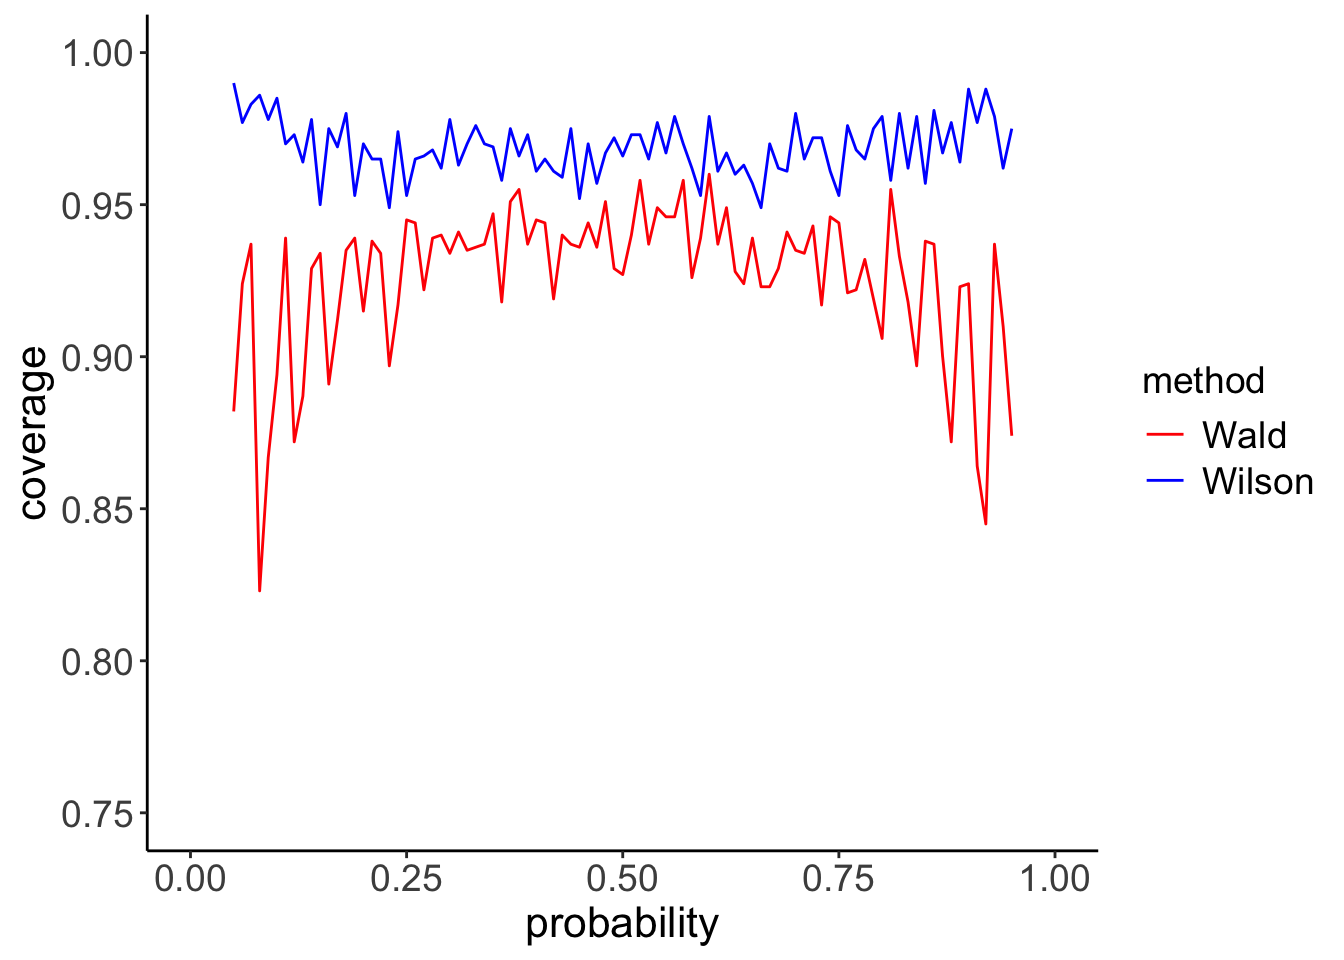
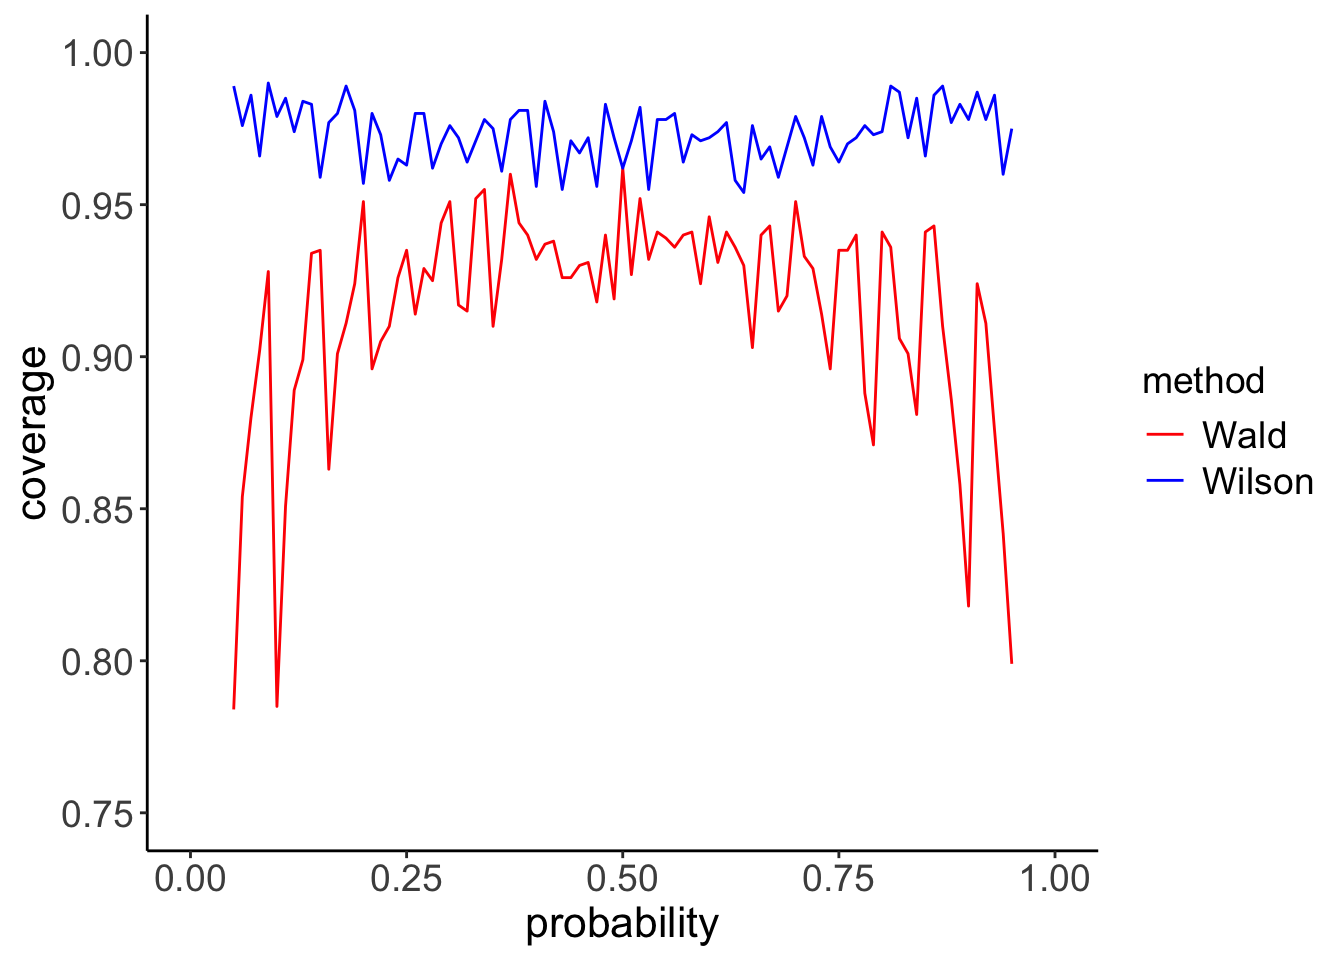
Publish site to docs/

Changed region(s): [[0.1562, 0.0938, 0.75, 0.7188]]

diff --git a/docs/posts/probability_estimation/index.html b/docs/posts/probability_estimation/index.html
@@ -8,9 +8,9 @@
 
 <meta name="author" content="Angelo Maria Sabatini">
 <meta name="dcterms.date" content="2024-04-27">
-<meta name="description" content="Confidence intervals for the estimation of probabilities and frequencies (proportions) are usually built using the binomial model. Approximate formulae are presented in many textbooks, and they are widely used when the number of trials is believed sufficiently high for the normal distribution to approximate the binomial distribution. By simulation, the properties of two popular methods, the Wilson method and the Wald method, are checked for their ability to provide the stated coverage.">
+<meta name="description" content="Usually confidence intervals for the estimation of proportions are built using methods, whose application requires the validity of the normal approximation to the binomial distribution. By simulation, two of these methods (Wilson and Wald) are tested for their ability to provide the stated coverage for small-to-large samples.">
 
-<title>Angelo Maria Sabatini - Simulation of counting experiments</title>
+<title>Angelo Maria Sabatini - Confidence intervals for proportions</title>
 <style>
 code{white-space: pre-wrap;}
 span.smallcaps{font-variant: small-caps;}
@@ -186,7 +186,7 @@ window.Quarto = {
 
 <header id="title-block-header" class="quarto-title-block default">
 <div class="quarto-title">
-<h1 class="title">Simulation of counting experiments</h1>
+<h1 class="title">Confidence intervals for proportions</h1>
   <div class="quarto-categories">
     <div class="quarto-category">statistics</div>
   </div>
@@ -194,7 +194,7 @@ window.Quarto = {
 
 <div>
   <div class="description">
-    Confidence intervals for the estimation of probabilities and frequencies (proportions) are usually built using the binomial model. Approximate formulae are presented in many textbooks, and they are widely used when the number of trials is believed sufficiently high for the normal distribution to approximate the binomial distribution. By simulation, the properties of two popular methods, the Wilson method and the Wald method, are checked for their ability to provide the stated coverage.
+    Usually confidence intervals for the estimation of proportions are built using methods, whose application requires the validity of the normal approximation to the binomial distribution. By simulation, two of these methods (Wilson and Wald) are tested for their ability to provide the stated coverage for small-to-large samples.
   </div>
 </div>
 
@@ -223,7 +223,7 @@ window.Quarto = {
 </header>
 
 
-<p>Consider a Bernoulli test with <span class="math inline">\(n\)</span> independent trials and <span class="math inline">\(x\)</span> successes that are recorded in the test. The frequency (proportion) <span class="math inline">\(f=x/n\)</span> is assumed to be the estimate of the true probability <span class="math inline">\(p\)</span>; we want to determine the values <span class="math inline">\(p_1\)</span> and <span class="math inline">\(p_2\)</span> of the confidence interval (CI) with the required confidence level (<span class="math inline">\(CL=100(1-\alpha)\%\)</span>) associated to <span class="math inline">\(f\)</span>.</p>
+<p>Consider a Bernoulli test with <span class="math inline">\(n\)</span> independent trials and <span class="math inline">\(x\)</span> successes that are recorded in the test. The proportion <span class="math inline">\(f=x/n\)</span> is assumed to be the estimate of the true probability <span class="math inline">\(p\)</span>; we want to determine the values <span class="math inline">\(p_1\)</span> and <span class="math inline">\(p_2\)</span> of the confidence interval (CI) with the required confidence level (<span class="math inline">\(CL=100(1-\alpha)\%\)</span>) associated to <span class="math inline">\(f\)</span>.</p>
 <p>The <strong>Clopper-Pearson equations</strong> can be used to calculate the CI:</p>
 <p><span id="eq-eq1"><span class="math display">\[
 \left\{
@@ -264,7 +264,7 @@ n(f-p)^2\leq t_{1-\alpha/2}^2\,p(1-p)
 <p><span id="eq-eq3"><span class="math display">\[
 p\in\dfrac{f+\dfrac{t^2_{1-\alpha/2}}{2n}}{\dfrac{t^2_{1-\alpha/2}}{n}+1}\pm\dfrac{t_{1-\alpha/2}\sqrt{\dfrac{t^2_{1-\alpha/2}}{4n^2}+\dfrac{f(1-f)}{n}}}{\dfrac{t^2_{1-\alpha/2}}{n}+1}
 \tag{3}\]</span></span></p>
-<p>It is noted that the Wilson interval is not centered on the measured frequency <span class="math inline">\(f\)</span> but on the value <span class="math inline">\((f+t_{1-\alpha/2}^2/2n)/(t_{1-\alpha/2}^2/n+1)\)</span>, which is a function of <span class="math inline">\(f\)</span> and the number of trials <span class="math inline">\(n\)</span>. This is due to the asymmetry of the binomial distribution for small <span class="math inline">\(n\)</span>.</p>
+<p>It is noted that the Wilson interval is not centered on the measured proportion <span class="math inline">\(f\)</span> but on the value <span class="math inline">\((f+t_{1-\alpha/2}^2/2n)/(t_{1-\alpha/2}^2/n+1)\)</span>, which is a function of <span class="math inline">\(f\)</span> and the number of trials <span class="math inline">\(n\)</span>. This is due to the asymmetry of the binomial distribution for small <span class="math inline">\(n\)</span>.</p>
 <div class="callout callout-style-default callout-caution callout-titled">
 <div class="callout-header d-flex align-content-center">
 <div class="callout-icon-container">
@@ -275,7 +275,7 @@ Continuity correction
 </div>
 </div>
 <div class="callout-body-container callout-body">
-<p>The accuracy of <a href="#eq-eq3" class="quarto-xref">Equation&nbsp;3</a> can be improved by applying the <strong>continuity correction</strong> to the frequency <span class="math inline">\(f=x/n\)</span>. This correction improves the accuracy of CI construction for discrete variables when they can be approximated by Gaussian variables:</p>
+<p>The accuracy of <a href="#eq-eq3" class="quarto-xref">Equation&nbsp;3</a> can be improved by applying the <strong>continuity correction</strong> to the proportion <span class="math inline">\(f=x/n\)</span>. This correction improves the accuracy of CI construction for discrete variables when they can be approximated by normal variables:</p>
 <p><span class="math display">\[
 f_{\pm}=\frac{x\pm0.5}{n}\rightarrow\left\{\begin{split}f_{+}&amp;=\min\left(1,\dfrac{x+0.5}{n}\right)\\f_{-}&amp;=\max\left(0,\dfrac{x-0.5}{n}\right)\end{split}\right.
 \]</span></p>
@@ -289,11 +289,11 @@ p_{\pm}\in\dfrac{f_{\pm}+\dfrac{t^2_{1-\alpha/2}}{2n}}{\dfrac{t^2_{1-\alpha/2}}{
 \]</span></p>
 </div>
 </div>
-<p>The Wilson interval (with continuity correction) is generally considered valid for <span class="math inline">\(n&gt;10\)</span>. For <span class="math inline">\(n\gg1\)</span> (namely, <span class="math inline">\(n&gt;20-30\)</span>), another useful approximate formulation of the CI is the <strong>Wald interval</strong>:</p>
+<p>The Wilson interval (with continuity correction) is generally considered valid for <span class="math inline">\(n&gt;10\)</span>. For <span class="math inline">\(n\gg1\)</span> (namely, <span class="math inline">\(n&gt;30\)</span>), another useful approximate formulation of the CI is the <strong>Wald interval</strong>:</p>
 <p><span id="eq-eq4"><span class="math display">\[
 p\in f\pm t_{1-\alpha/2}\sqrt{\dfrac{f(1-f)}{n}}
 \tag{4}\]</span></span></p>
-<p>The Wald interval, which does not require any continuity correction, is symmetric around the estimated frequency, as it would be the Wilson interval for <span class="math inline">\(n\gg1\)</span>. For <span class="math inline">\(n\gg1\)</span> it is noted indeed that the Wilson interval tends to be identical to the Wald interval. The question is how big <span class="math inline">\(n\)</span> would be considered big enough for a safe application of the Wald method.</p>
+<p>The Wald interval, which does not require any continuity correction, is symmetric around the estimated proportion, as it would be the Wilson interval for <span class="math inline">\(n\gg1\)</span>. For <span class="math inline">\(n\gg1\)</span> it is noted indeed that the Wilson interval tends to be identical to the Wald interval. The question is how big <span class="math inline">\(n\)</span> would be considered big enough for a safe application of the Wald method.</p>
 <p>The R code below is a fully reproducible code to generate coverage plots for the Wilson interval (with continuity correction) and the Wald interval.</p>
 <div class="cell">
 <div class="cell-output-display">
@@ -303,13 +303,13 @@ p\in f\pm t_{1-\alpha/2}\sqrt{\dfrac{f(1-f)}{n}}
 <img src="index_files/figure-html/fig-fig1-1.png" class="img-fluid figure-img" width="672">
 </div>
 <figcaption class="quarto-float-caption-bottom quarto-float-caption quarto-float-fig" id="fig-fig1-caption-0ceaefa1-69ba-4598-a22c-09a6ac19f8ca">
-Figure&nbsp;1: Coverage curves for the binomial distribution with <span class="math inline">\(N=40\)</span>.
+Figure&nbsp;1: Coverage curves for the binomial distribution with <span class="math inline">\(n=30\)</span>.
 </figcaption>
 </figure>
 </div>
 </div>
 </div>
-<p>The simulation results of <a href="#fig-fig1" class="quarto-xref">Figure&nbsp;1</a> (<span class="math inline">\(n=40\)</span>) show that, whereas the Wilson method tends to provide some limited over-coverage for all values of <span class="math inline">\(p\)</span> (this is simply due to <span class="math inline">\(x\)</span> being present in both the sums of <a href="#eq-eq1" class="quarto-xref">Equation&nbsp;1</a>), the Wald interval performs poorly, with severe under-coverage, especially for low and high values of <span class="math inline">\(p\)</span>. These results seem to raise objections against the use of the Wald interval, even in situations when <span class="math inline">\(n\gg1\)</span>: <a href="#fig-fig2" class="quarto-xref">Figure&nbsp;2</a> shows the coverage plots in the case of <span class="math inline">\(n=100\)</span>.</p>
+<p>The simulation results of <a href="#fig-fig1" class="quarto-xref">Figure&nbsp;1</a> (<span class="math inline">\(n=30\)</span>) show that, whereas the Wilson method tends to provide some limited over-coverage for all values of <span class="math inline">\(p\)</span> (this is simply due to <span class="math inline">\(x\)</span> being present in both the sums of <a href="#eq-eq1" class="quarto-xref">Equation&nbsp;1</a>), the Wald interval performs poorly, with severe under-coverage, especially for low and high values of <span class="math inline">\(p\)</span>. These results seem to raise objections against the use of the Wald interval, even in situations when <span class="math inline">\(n\gg1\)</span>: <a href="#fig-fig2" class="quarto-xref">Figure&nbsp;2</a> shows the coverage plots in the case of <span class="math inline">\(n=100\)</span>.</p>
 <div class="cell">
 <div class="cell-output-display">
 <div id="fig-fig2" class="quarto-figure quarto-figure-center quarto-float anchored">
@@ -318,7 +318,7 @@ Figure&nbsp;1: Coverage curves for the binomial distribution with <span class="m
 <img src="index_files/figure-html/fig-fig2-1.png" class="img-fluid figure-img" width="672">
 </div>
 <figcaption class="quarto-float-caption-bottom quarto-float-caption quarto-float-fig" id="fig-fig2-caption-0ceaefa1-69ba-4598-a22c-09a6ac19f8ca">
-Figure&nbsp;2: Coverage curves for the binomial distribution with <span class="math inline">\(N=100\)</span>.
+Figure&nbsp;2: Coverage curves for the binomial distribution with <span class="math inline">\(n=100\)</span>.
 </figcaption>
 </figure>
 </div>
@@ -326,7 +326,7 @@ Figure&nbsp;2: Coverage curves for the binomial distribution with <span class="m
 </div>
 <p>Although the performance of the Wald method slightly improve, the Wilson method still outperforms it, especially for small and high values of <span class="math inline">\(p\)</span>.</p>
 <blockquote class="blockquote">
-<p>To conclude, when estimating the confidence interval associated to the estimate of probabilites and frequencies (proportions), the Wald interval - the most basic confidence interval - appears to be seriously flawed, also for values of the number of trials that are greeted as suitable for it to work in most statistics textbooks. The Wilson interval with continuity correction tends to perform much better.</p>
+<p>To conclude, when estimating the confidence interval associated to the estimate of proportions, the Wald interval - the most basic confidence interval - appears to be seriously flawed, also for values of the number of trials that are greeted as suitable for it to work in most statistics textbooks. The Wilson interval with continuity correction tends to perform much better.</p>
 </blockquote>
 
 

diff --git a/docs/blog.html b/docs/blog.html
@@ -260,7 +260,7 @@ window.Quarto = {
     </div>
 </div>
 <div class="list quarto-listing-default">
-<div class="quarto-post image-right" data-index="0" data-categories="statistics" data-listing-date-sort="1714168800000" data-listing-file-modified-sort="1714214932695" data-listing-date-modified-sort="NaN" data-listing-reading-time-sort="9" data-listing-word-count-sort="1756">
+<div class="quarto-post image-right" data-index="0" data-categories="statistics" data-listing-date-sort="1714168800000" data-listing-file-modified-sort="1714216816702" data-listing-date-modified-sort="NaN" data-listing-reading-time-sort="9" data-listing-word-count-sort="1749">
 <div class="thumbnail">
 <p><a href="./posts/probability_estimation/index.html" class="no-external"></a></p><a href="./posts/probability_estimation/index.html" class="no-external">
 <p class="card-img-top"><img src="posts/probability_estimation/index_files/figure-html/fig-fig1-1.png"  class="thumbnail-image card-img"/></p>
@@ -268,7 +268,7 @@ window.Quarto = {
 </div>
 <div class="body">
 <h3 class="no-anchor listing-title">
-<a href="./posts/probability_estimation/index.html" class="no-external">Simulation of counting experiments</a>
+<a href="./posts/probability_estimation/index.html" class="no-external">Confidence intervals for proportions</a>
 </h3>
 <div class="listing-subtitle">
 <a href="./posts/probability_estimation/index.html" class="no-external"></a>
@@ -279,7 +279,7 @@ statistics
 </div>
 </div>
 <div class="listing-description">
-<a href="./posts/probability_estimation/index.html" class="no-external">Confidence intervals for the estimation of probabilities and frequencies (proportions) are usually built using the binomial model. Approximate formulae are presented in many textbooks, and they are widely used when the number of trials is believed sufficiently high for the normal distribution to approximate the binomial distribution. By simulation, the properties of two popular methods, the Wilson method and the Wald method, are checked for their ability to provide the stated coverage.</a>
+<a href="./posts/probability_estimation/index.html" class="no-external">Usually confidence intervals for the estimation of proportions are built using methods, whose application requires the validity of the normal approximation to the binomial distribution. By simulation, two of these methods (Wilson and Wald) are tested for their ability to provide the stated coverage for small-to-large samples.</a>
 </div>
 </div>
 <div class="metadata">

diff --git a/docs/archive.html b/docs/archive.html
@@ -235,10 +235,10 @@ window.Quarto = {
 
 <div class="quarto-listing quarto-listing-container-default" id="listing-listing">
 <div class="list quarto-listing-default">
-<div class="quarto-post image-right" data-index="0" data-categories="statistics" data-listing-date-sort="1714168800000" data-listing-file-modified-sort="1714214932695" data-listing-date-modified-sort="NaN" data-listing-reading-time-sort="9" data-listing-word-count-sort="1756">
+<div class="quarto-post image-right" data-index="0" data-categories="statistics" data-listing-date-sort="1714168800000" data-listing-file-modified-sort="1714216816702" data-listing-date-modified-sort="NaN" data-listing-reading-time-sort="9" data-listing-word-count-sort="1749">
 <div class="body">
 <h3 class="no-anchor listing-title">
-<a href="./posts/probability_estimation/index.html" class="no-external">Simulation of counting experiments</a>
+<a href="./posts/probability_estimation/index.html" class="no-external">Confidence intervals for proportions</a>
 </h3>
 <div class="listing-subtitle">
 <a href="./posts/probability_estimation/index.html" class="no-external"></a>
